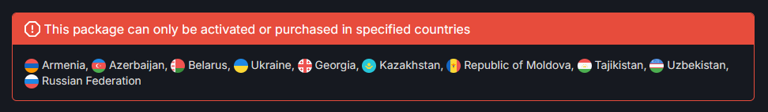
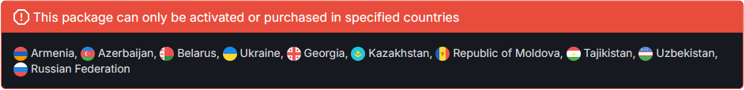
Explain the R6S license error and shorten the Year 1 answer

diff --git a/src/app/multiplayer/page.tsx b/src/app/multiplayer/page.tsx
@@ -48,7 +48,6 @@ const faqs: FaqItem[] = [
             through your firewall for both private and public networks
             <ContentImage
               src="/media/others/radmin-firewall.webp"
-              alt="Radmin VPN with System, Firewall Exceptions and Add Application open and RainbowSix selected"
               width={524}
               height={160}
               className="rounded-none border-0"
@@ -60,33 +59,27 @@ const faqs: FaqItem[] = [
   },
   {
     id: "year-1",
-    q: "Why does the hosted game not appear in Join Local in Year 1?",
+    q: "Why does the hosted game not appear in Year 1?",
     platform: "windows",
     a: (
-      <>
-        <p>
-          These seasons use the network adapter that Windows prefers, so all
-          Windows players need to make Radmin VPN the preferred one.
-        </p>
-        <ol>
-          <li>
-            Search for <code>ncpa.cpl</code> in the Windows Start menu
-          </li>
-          <li>
-            Right-click <strong>Radmin VPN</strong> and select{" "}
-            <strong>Properties</strong>
-          </li>
-          <li>
-            Select <strong>Internet Protocol Version 4 (TCP/IPv4)</strong> and
-            click <strong>Properties</strong> &gt; <strong>Advanced</strong>
-          </li>
-          <li>
-            Uncheck <strong>Automatic metric</strong>, enter <strong>1</strong>{" "}
-            under <em>Interface metric</em> and confirm with <strong>OK</strong>
-          </li>
-          <li>Restart the game</li>
-        </ol>
-      </>
+      <ol>
+        <li>
+          Search for <code>ncpa.cpl</code> in the Windows Start menu
+        </li>
+        <li>
+          Right-click <strong>Radmin VPN</strong> and select{" "}
+          <strong>Properties</strong>
+        </li>
+        <li>
+          Select <strong>Internet Protocol Version 4 (TCP/IPv4)</strong> and
+          click <strong>Properties</strong> &gt; <strong>Advanced</strong>
+        </li>
+        <li>
+          Uncheck <strong>Automatic metric</strong>, enter <strong>1</strong>{" "}
+          under <em>Interface metric</em> and confirm with <strong>OK</strong>
+        </li>
+        <li>Restart the game</li>
+      </ol>
     ),
   },
 ];

diff --git a/src/app/common-errors/page.tsx b/src/app/common-errors/page.tsx
@@ -270,6 +270,31 @@ const faqs: FaqItem[] = [
   },
   {
     id: "sku-rus",
+    q: (
+      <>
+        Why do I get <em>Your R6S license is not supported</em>?
+      </>
+    ),
+    method: "launcher",
+    a: (
+      <>
+        <p>
+          This error means your Steam account owns a regional version of the
+          game called SKU RUS, which is only sold in the countries below. The
+          Launcher does not support it, so you need a Steam account that owns
+          the worldwide version.
+        </p>
+        <ContentImage
+          src="/media/others/sku-rus.webp"
+          width={744}
+          height={90}
+          className="rounded-none border-0"
+        />
+      </>
+    ),
+  },
+  {
+    id: "sku-rus",
     q: "My game is in Russian. How do I switch to English?",
     method: "downloader",
     a: (
@@ -295,9 +320,9 @@ const faqs: FaqItem[] = [
         </ol>
         <ContentImage
           src="/media/others/sku-rus.webp"
-          alt="SKU RUS regions map"
-          width={768}
-          height={112}
+          width={744}
+          height={90}
+          className="rounded-none border-0"
         />
       </>
     ),
